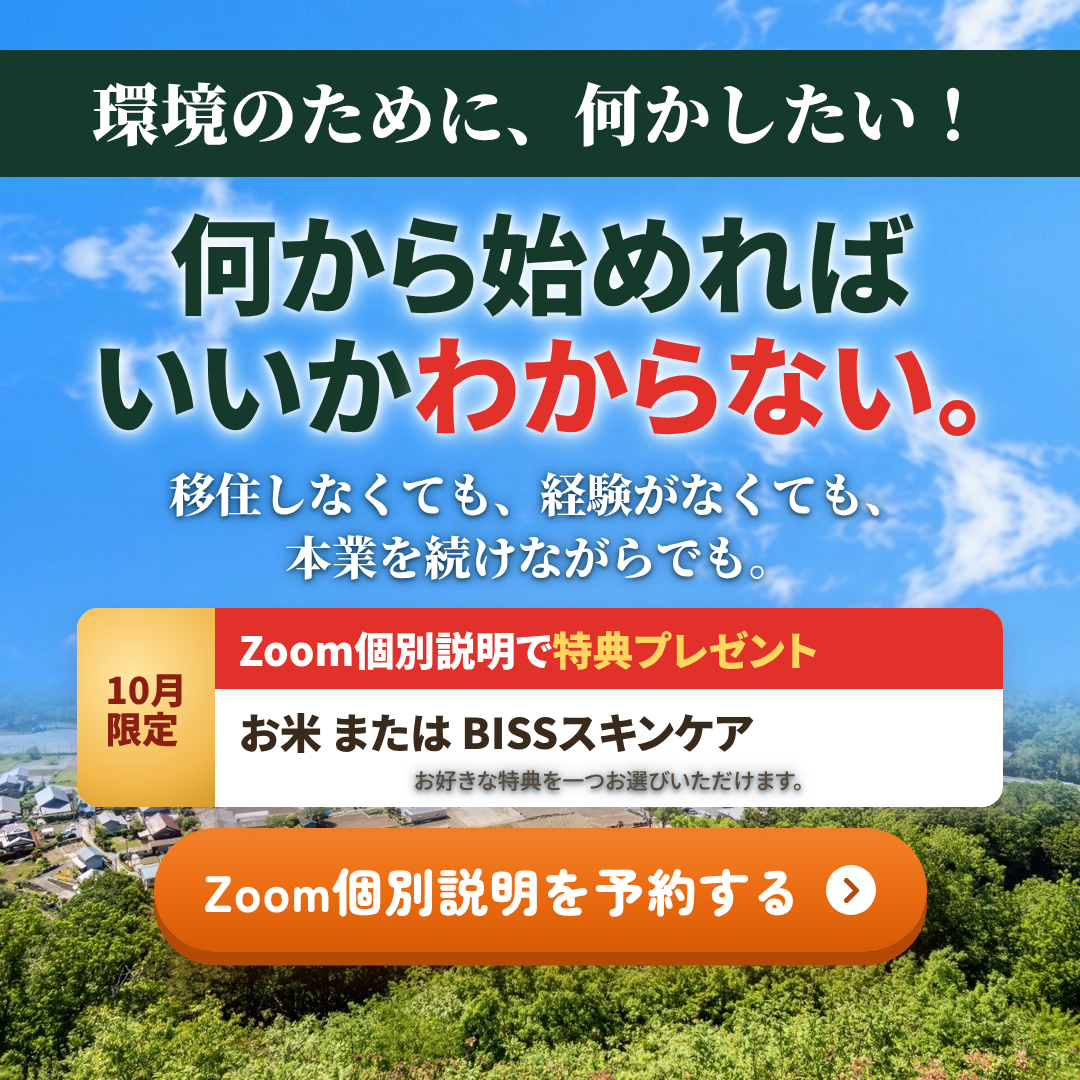
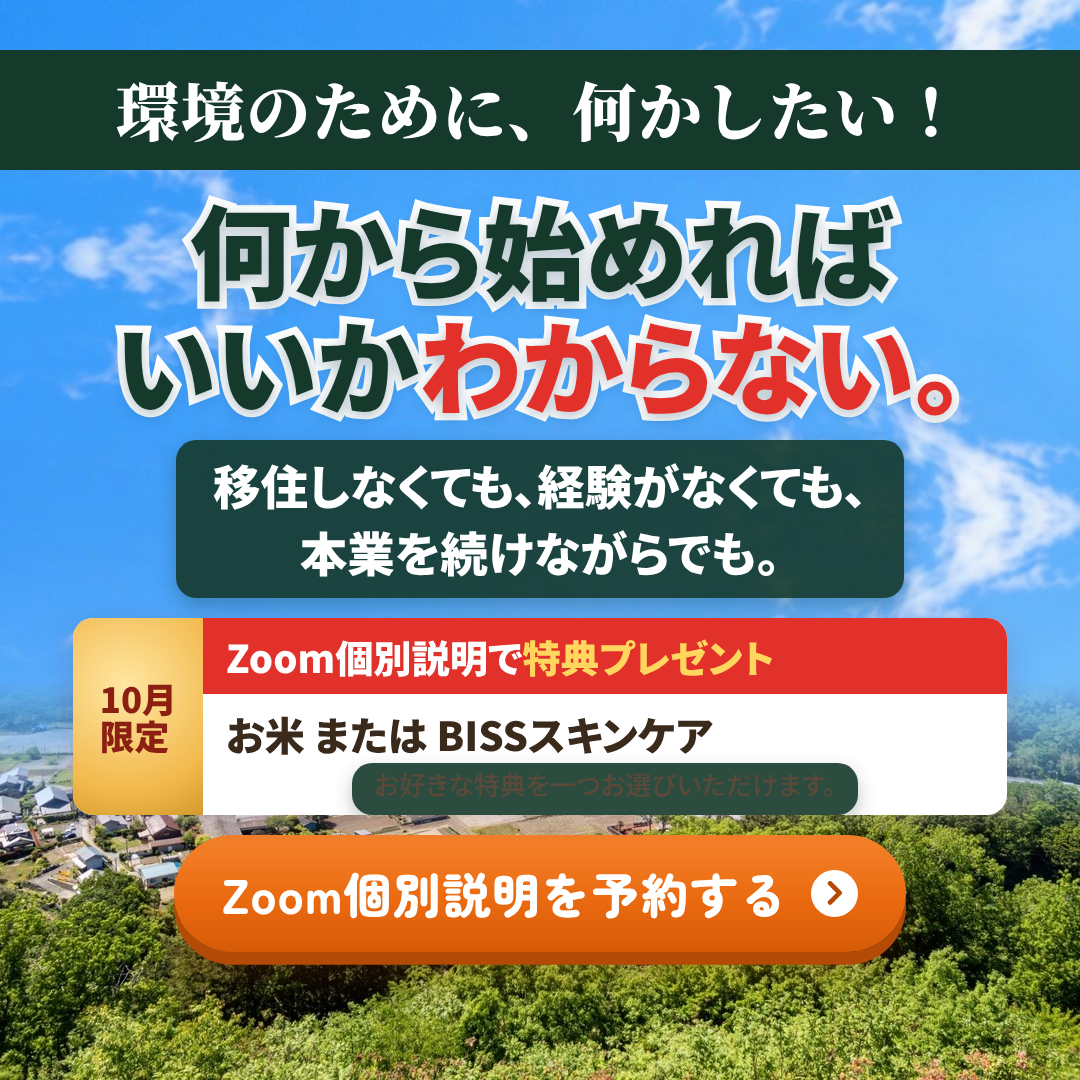
feat: インパクト版の動画構成（ドーン/バン演出・10月限定バッジ・中央配置）を追加
Claude-Session: https://claude.ai/code/session_01P3SyrgKkzVaKXZHt8wAsTA

diff --git a/ads/blueberry-reel/template/adreel.js b/ads/blueberry-reel/template/adreel.js
@@ -28,7 +28,7 @@
     });
     const imgs = new Set();
     if (cfg.scenes.some((x) => x.parts.gifts)) ['gift-rice.jpg', 'gift-biss.jpg'].forEach((f) => imgs.add(f));
-    cfg.scenes.forEach((x) => { if (x.parts.bg) imgs.add(x.parts.bg); if (x.parts.deco) imgs.add(x.parts.deco.img); });
+    cfg.scenes.forEach((x) => { if (x.parts.bg) imgs.add(x.parts.bg); if (x.parts.deco) imgs.add(x.parts.deco.img); if (x.parts.img) imgs.add(x.parts.img.src); });
     await L.loadImages([...imgs].map((f) => `../assets/${f}`));
     await L.loadFonts(document.body.innerText);
     await Promise.all(['900 60px "Noto Serif JP"', '900 60px "Noto Sans JP"'].map((f) => document.fonts.load(f, document.body.innerText)));
@@ -48,7 +48,8 @@
     }
     for (const sn of scenes) {
       sn.c.style.opacity = 1; sn.c.style.visibility = 'visible';
-      K.layout(sn.c, F, 'top');
+      K.layout(sn.c, F, sn.s.parts.anchor || 'center');
+      if (sn.s.parts.slam) sn.flash = el('div', 'sflash', root);
       sn.kids = [...sn.c.children];
       const btn = sn.c.querySelector('.cta-btn');
       if (btn) {
@@ -74,6 +75,7 @@
         sn.c.style.opacity = 0;
         if (sn.bg) sn.bg.style.opacity = 0;
         if (sn.deco) sn.deco.style.opacity = 0;
+        if (sn.flash) sn.flash.style.opacity = 0;
         continue;
       }
       const lt = t - start;
@@ -90,8 +92,29 @@
         sn.deco.style.opacity = alpha * clamp(dp * 1.5);
         sn.deco.style.transform = `translateY(${(1 - dp) * 80}px) scale(${sc(lerp(0.6, 1, dp))}) rotate(${(1 - dp) * -8 + Math.sin(lt * 1.8) * 1.2}deg)`;
       }
+      // 「ドーン／バン」演出：特大文字が一気に拡大して着地 → 画面が揺れ、白くフラッシュ
+      const slam = !!sn.s.parts.slam;
+      const IMPACT = 0.16;
+      let shakeX = 0, shakeY = 0;
+      if (slam) {
+        const d = lt - 0.05 - IMPACT;
+        if (d >= 0) { const amp = 20 * Math.exp(-d * 9); shakeX = Math.sin(d * 95) * amp; shakeY = Math.cos(d * 80) * amp; }
+        sn.flash.style.opacity = d >= 0 ? 0.65 * Math.exp(-d * 16) * (1 - pout) : 0;
+      }
+      sn.c.style.transform = `translate(${shakeX.toFixed(2)}px, ${shakeY.toFixed(2)}px)`;
+      if (sn.bg && slam) sn.bg.style.transform = `translate(${shakeX.toFixed(2)}px, ${shakeY.toFixed(2)}px) scale(${1 + 0.07 * clamp(lt / (end - start))})`;
       sn.kids.forEach((k, i) => {
-        const p = ease.outBack(prog(lt, 0.08 + 0.3 * i, 0.5));
+        if (slam && k.classList.contains('big')) {
+          const dt = lt - 0.05;
+          let s = 1;
+          if (dt < IMPACT) s = lerp(3.2, 0.93, Math.pow(clamp(dt / IMPACT), 2));
+          else { const e = dt - IMPACT; s = 1 - 0.07 * Math.exp(-e * 11) * Math.cos(e * 32); }
+          k.style.opacity = clamp(dt / 0.04);
+          k.style.transform = `scale(${sc(s)})`;
+          return;
+        }
+        const delay = slam ? 0.55 + 0.25 * i : 0.08 + 0.3 * i;
+        const p = ease.outBack(prog(lt, delay, 0.5));
         const fp = clamp(p * 1.4);
         const isBtn = k === sn.btn;
         let press = 0;

diff --git a/ads/blueberry-reel/template/ad.js b/ads/blueberry-reel/template/ad.js
@@ -23,6 +23,7 @@
   const T = (tag, cls, parent, html) => { const e = el(tag, cls, parent); e.innerHTML = html; e.dataset.text = '1'; return e; };
 
   function build(p, c, f) {
+    if (c.badge) T('div', 'badge', p, escapeHtml(c.badge));
     if (c.band) T('div', 'band', p, escapeHtml(c.band));
     if (c.chips) {
       const row = el('div', 'chips', p);
@@ -43,6 +44,10 @@
     if (c.big) {
       const b = el('div', `big glow ${c.bigSize || ''}`, p);
       c.big.forEach((l) => { const ln = el('span', 'ln', b); ln.innerHTML = markup(l).replace(/class="hl"/g, 'class="red"'); ln.dataset.text = '1'; });
+    }
+    if (c.img) {
+      const im = el('img', 'flowimg', p, { width: `${c.img.width}px` });
+      im.src = `../assets/${c.img.src}`;
     }
     if (c.gifts) {
       const row = el('div', 'gifts', p);
@@ -121,7 +126,7 @@
     const avail = F.bottom - F.top - 8;
     const { scale, h } = fitContent(content, F, avail, fit);
     // 全幅の帯の文字がセーフゾーン上端より上に出ないよう、文字の外接矩形で位置を補正（zoom下の top は拡縮されるため scale で割る）
-    content.style.top = `${(F.top + (anchor === 'top' ? 20 : Math.max(0, (avail - h) / 2))) / scale}px`;
+    content.style.top = `${(F.top + (anchor === 'top' ? 20 : Math.max(0, (avail - h) * 0.62))) / scale}px`;
     const first = content.querySelector('[data-text]');
     const rr = document.createRange(); rr.selectNodeContents(first);
     const over = F.top - rr.getBoundingClientRect().top;

diff --git a/ads/blueberry-reel/template/ad.css b/ads/blueberry-reel/template/ad.css
@@ -31,7 +31,13 @@
   .cta-btn .arrow { width: 52px; height: 52px; }
   .foot { align-self: center; max-width: 900px; font-family: 'Noto Sans JP', sans-serif; font-weight: 700; font-size: 30px; line-height: 1.4; color: #fff; background: rgba(15,35,28,.72); border-radius: 12px; padding: 8px 24px; text-align: center; }
 
-  .gcard .glabel { font-size: 36px; line-height: 1.25; white-space: nowrap; }
+  .gcard .glabel { font-size: 32px; line-height: 1.25; white-space: nowrap; }
 
   .gcard { padding: 0 0 12px !important; }
   .gcard .gphoto { width: 100%; height: 300px; background-size: cover; margin-bottom: 8px; }
+
+  .big.xl { font-size: 190px; line-height: 1.06; }
+  .big.xl.glow { -webkit-text-stroke: 24px #fff; }
+  .badge { align-self: center; font-family: 'Noto Serif JP', serif; font-weight: 900; font-size: 128px; line-height: 1.1; color: #b3261e; padding: 14px 64px 22px; border-radius: 28px; border: 10px solid #fff; background: linear-gradient(160deg, #fff1b8 0%, #f6c445 48%, #e0a21f 100%); box-shadow: 0 18px 36px rgba(90,40,0,.35); transform-origin: 50% 60%; white-space: nowrap; }
+  .flowimg { display: block; height: auto; align-self: center; filter: drop-shadow(0 18px 22px rgba(10,40,20,.35)); }
+  .sflash { position: absolute; inset: 0; background: #fff; opacity: 0; pointer-events: none; }
